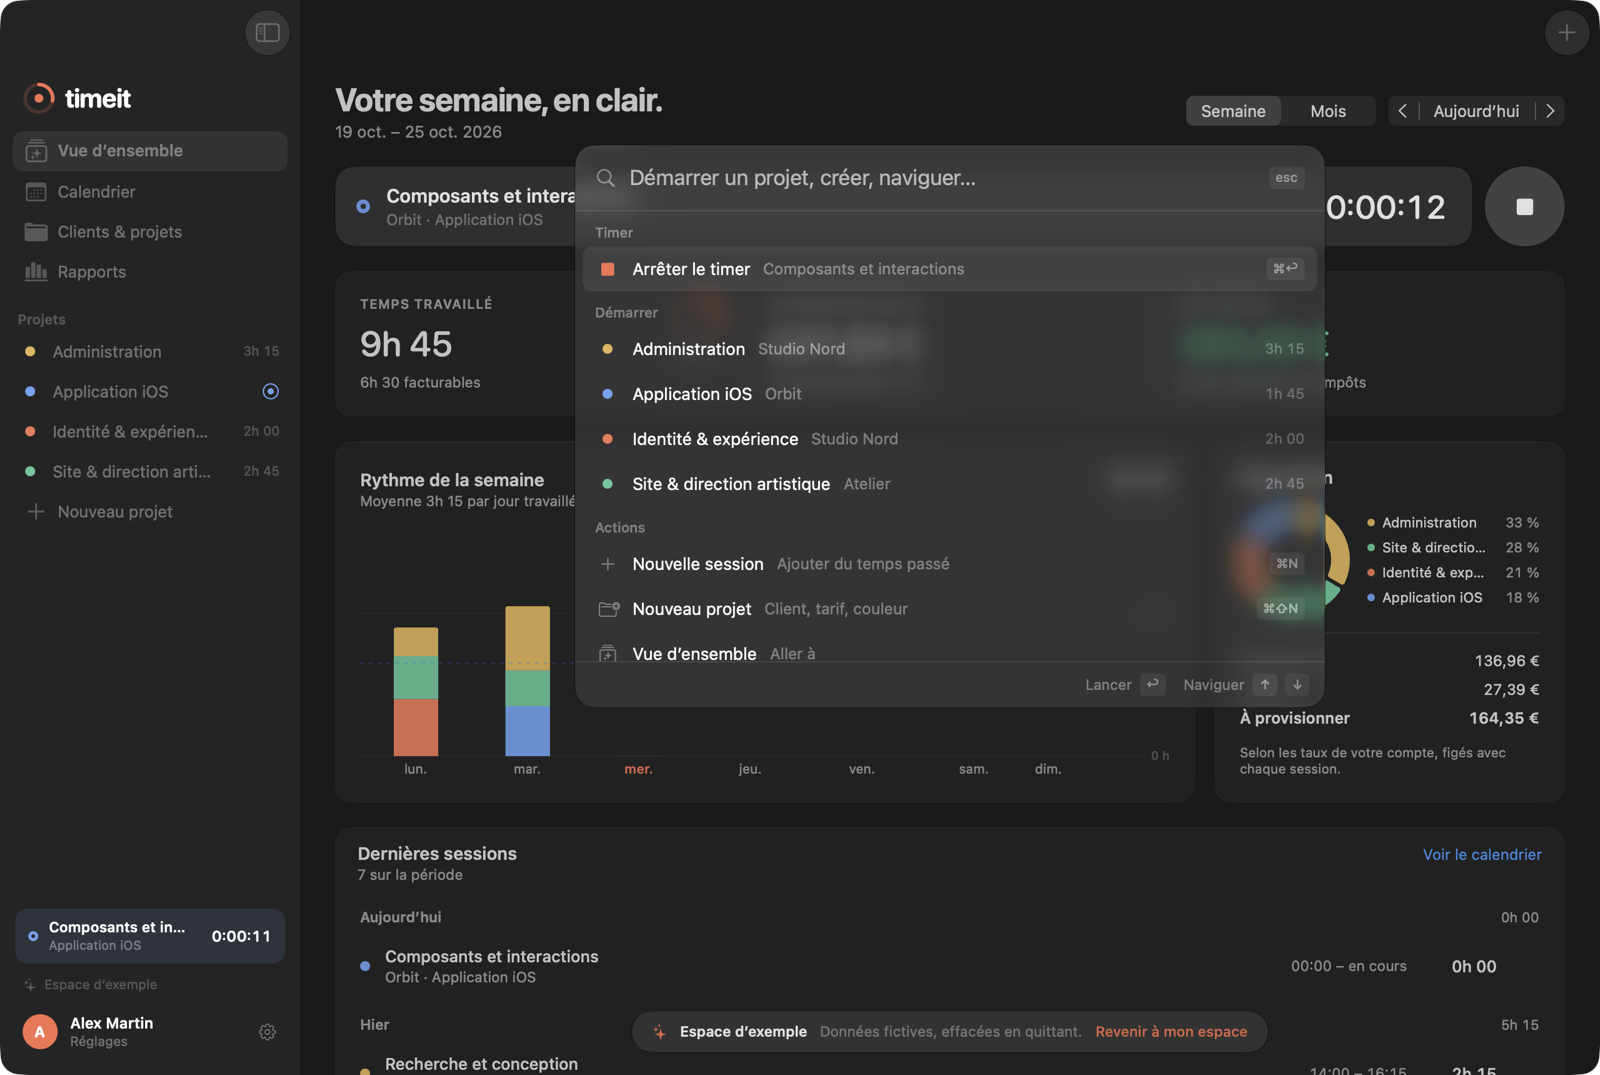
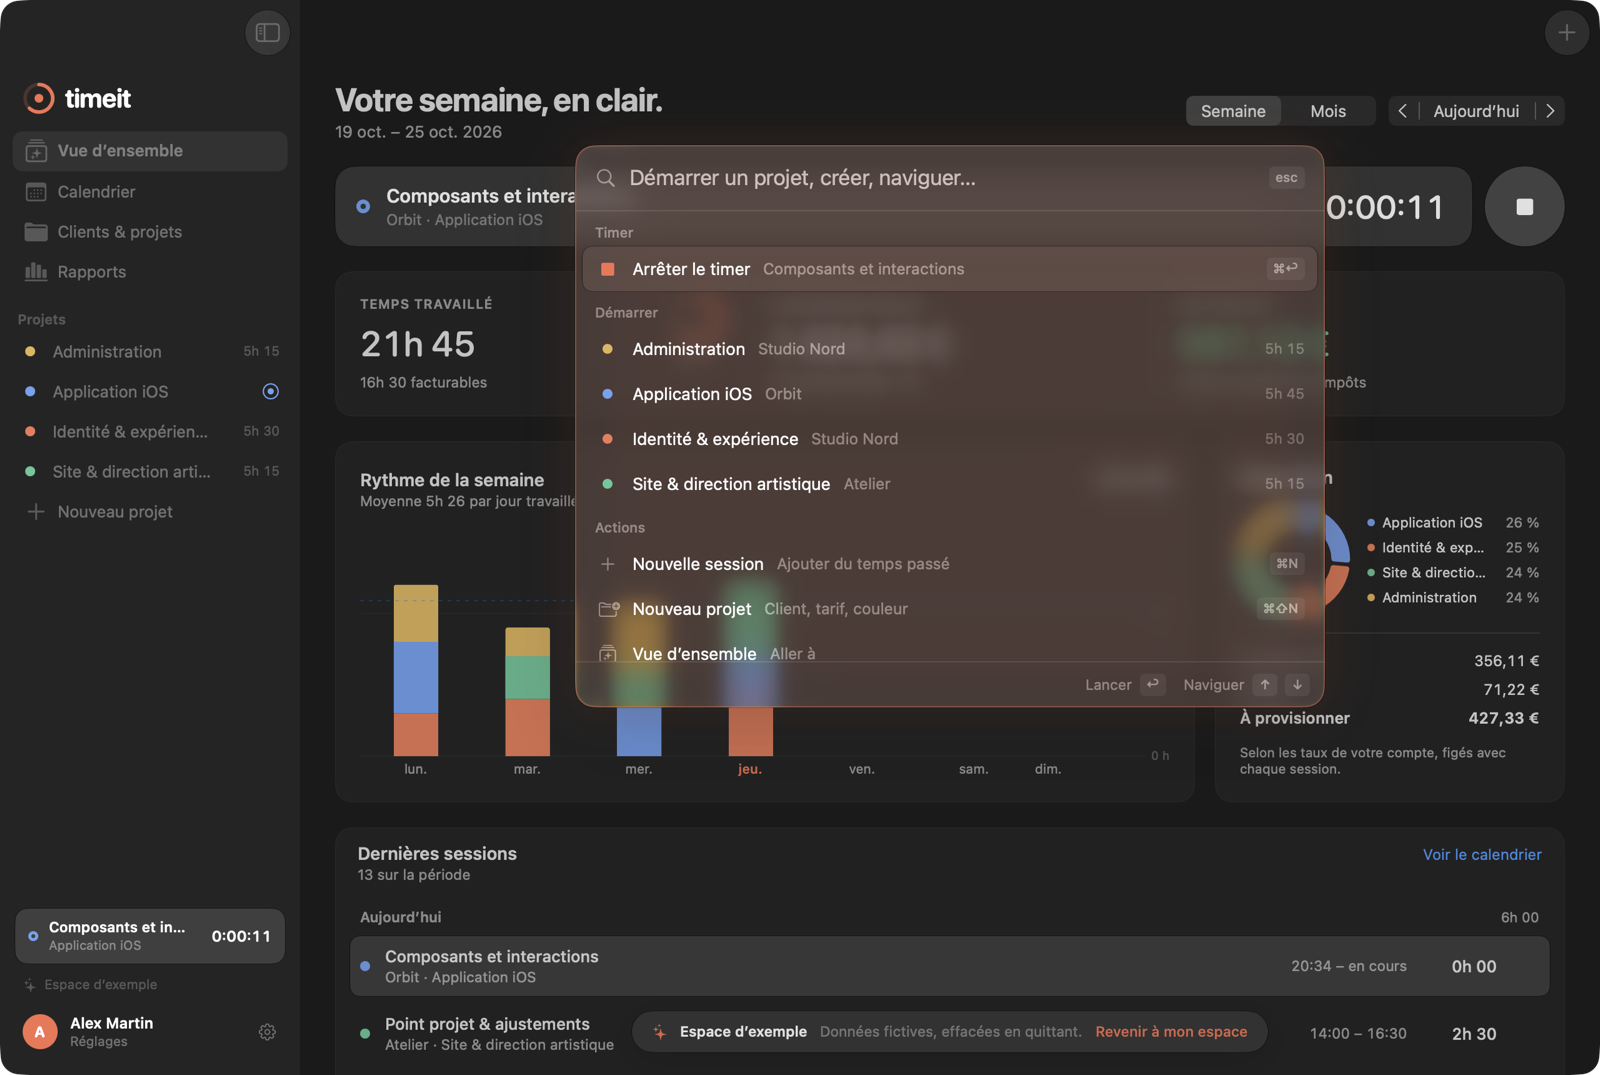
feat(design): define liquid glass roles and reduced-motion behavior
Centralize glass styling and accessibility fallbacks. Apply selection
and panel treatments to active timers and the command palette.

diff --git a/apps/macos/Sources/TimeitApp/Glass.swift b/apps/macos/Sources/TimeitApp/Glass.swift
@@ -1,0 +1,150 @@
+import SwiftUI
+
+/// What a glass surface is for. The more a surface matters, the more glass it is.
+/// No view applies `glassEffect` directly; everything goes through `glass(_:tint:radius:)`.
+enum GlassRole {
+    /// What is live or chosen right now: the running timer, the running row, the palette's highlighted command.
+    case selection
+    /// A control floating on the content: the composer, a filter chip.
+    case control
+    /// A control that acts or is on: the start and stop buttons, filled with `tint`.
+    case accent
+    /// Anything floating over the window: the command palette, the example-workspace badge.
+    case panel
+}
+
+extension View {
+    /// Liquid Glass behind the view, in a continuous rounded rectangle (`radius = height / 2` for a capsule).
+    /// With Reduce Transparency it becomes an opaque fill with a hairline. Passing `id` lets a surrounding
+    /// `GlassEffectContainer` morph this surface into another one with the same id.
+    func glass(
+        _ role: GlassRole, tint: Color? = nil, radius: CGFloat, id: String? = nil, in namespace: Namespace.ID? = nil
+    ) -> some View {
+        modifier(GlassSurface(role: role, tint: tint, radius: radius, id: id, namespace: namespace))
+    }
+
+    /// A fine accent ring and faint halo around a floating panel. When the panel appears, one band of light
+    /// crosses it from bottom to top; afterwards it stays still and draws nothing that moves.
+    func lightRing(_ color: Color, radius: CGFloat) -> some View {
+        modifier(LightRing(color: color, radius: radius))
+    }
+
+    /// Marks what is running: a selection lens tinted with the project color while `tint` is set.
+    /// Otherwise the view keeps its resting surface: a card, or nothing.
+    func liveLens(_ tint: Color?, radius: CGFloat, restingCard: Bool = false) -> some View {
+        background {
+            let shape = RoundedRectangle(cornerRadius: radius, style: .continuous)
+            if let tint {
+                Color.clear.glass(.selection, tint: tint, radius: radius)
+            } else if restingCard {
+                shape.fill(Theme.surface).overlay { shape.strokeBorder(Theme.hairline, lineWidth: 0.5) }
+            }
+        }
+    }
+
+    /// For panels over the window: the command palette.
+    func panelShadow() -> some View { shadow(color: .black.opacity(0.16), radius: 32, y: 16) }
+    /// For small floating surfaces: badges and toasts.
+    func floatShadow() -> some View { shadow(color: .black.opacity(0.12), radius: 14, y: 6) }
+}
+
+private struct GlassSurface: ViewModifier {
+    let role: GlassRole
+    let tint: Color?
+    let radius: CGFloat
+    let id: String?
+    let namespace: Namespace.ID?
+    @Environment(\.accessibilityReduceTransparency) private var reduceTransparency
+    @Environment(\.colorScheme) private var scheme
+
+    @ViewBuilder func body(content: Content) -> some View {
+        let shape = RoundedRectangle(cornerRadius: radius, style: .continuous)
+        // Applied to the view itself, so its content draws on top of the glass, including inside a
+        // `GlassEffectContainer`, which would otherwise merge a background glass layer over the content.
+        if reduceTransparency {
+            content.background { shape.fill(opaqueFill).overlay { shape.strokeBorder(Theme.hairline) } }
+        } else if let id, let namespace {
+            content.glassEffect(glass, in: shape).glassEffectID(id, in: namespace)
+        } else {
+            content.glassEffect(glass, in: shape)
+        }
+    }
+
+    private var glass: Glass {
+        let dark = scheme == .dark
+        switch role {
+        case .selection: return .regular.tint(tint?.opacity(dark ? 0.26 : 0.14)).interactive()
+        case .control: return .regular.tint(tint?.opacity(dark ? 0.16 : 0.08)).interactive()
+        case .accent: return .regular.tint(tint ?? Theme.accent).interactive()
+        case .panel: return .regular
+        }
+    }
+
+    private var opaqueFill: Color {
+        switch role {
+        case .selection: (tint ?? .primary).opacity(scheme == .dark ? 0.22 : 0.12)
+        case .control: Color(nsColor: .controlBackgroundColor)
+        case .accent: tint ?? Theme.accent
+        case .panel: Color(nsColor: .windowBackgroundColor)
+        }
+    }
+}
+
+private struct LightRing: ViewModifier {
+    let color: Color
+    let radius: CGFloat
+    @State private var crossing: Double = 0
+    @Environment(\.accessibilityReduceTransparency) private var reduceTransparency
+    @Environment(\.accessibilityReduceMotion) private var reduceMotion
+
+    func body(content: Content) -> some View {
+        let shape = RoundedRectangle(cornerRadius: radius, style: .continuous)
+        content
+            .background {
+                if !reduceTransparency {
+                    shape.fill(color.opacity(0.12)).blur(radius: 18).padding(-2).allowsHitTesting(false)
+                }
+            }
+            .overlay {
+                shape.strokeBorder(color.opacity(reduceTransparency ? 0.6 : 0.4), lineWidth: 1)
+                    .modifier(LightBand(progress: crossing, color: color, shape: shape))
+                    .allowsHitTesting(false)
+            }
+            .onAppear {
+                guard !reduceMotion else { return }
+                crossing = 0
+                withAnimation(.timingCurve(0.15, 0.9, 0.3, 1, duration: 0.9)) { crossing = 1 }
+            }
+    }
+}
+
+/// A brighter band travelling up the ring. Driven by one animatable value, so it only renders while it runs.
+private struct LightBand: ViewModifier, Animatable {
+    var progress: Double
+    let color: Color
+    let shape: RoundedRectangle
+    nonisolated var animatableData: Double {
+        get { progress }
+        set { progress = newValue }
+    }
+
+    func body(content: Content) -> some View {
+        content.overlay {
+            if progress > 0 && progress < 1 {
+                let light = color.mix(with: .white, by: 0.5)
+                let center = progress
+                shape.strokeBorder(
+                    LinearGradient(
+                        stops: [
+                            .init(color: light.opacity(0), location: max(0, center - 0.3)),
+                            .init(color: light, location: center),
+                            .init(color: light.opacity(0), location: min(1, center + 0.3)),
+                        ],
+                        startPoint: .bottom, endPoint: .top),
+                    lineWidth: 1.5
+                )
+                .opacity(sin(.pi * progress))
+            }
+        }
+    }
+}

diff --git a/apps/macos/Sources/TimeitApp/TimerViews.swift b/apps/macos/Sources/TimeitApp/TimerViews.swift
@@ -4,10 +4,12 @@ import TimeitCore
 
 // MARK: - Composer
 
-/// The primary surface: an idle composer that morphs into the running timer.
+/// The primary surface: an idle composer that morphs into the running timer, whatever starts or stops it
+/// (button, ⌘↩, the global shortcut, the palette or the menu bar).
 struct TimerComposer: View {
     @Bindable var store: AppStore
     @Namespace private var glass
+    private static let radius: CGFloat = 16
     var body: some View {
         GlassEffectContainer(spacing: 10) {
             HStack(spacing: 10) {
@@ -18,6 +20,7 @@ struct TimerComposer: View {
                 }
             }
         }
+        .shellAnimation(value: store.running?.id)
     }
 
     private var idle: some View {
@@ -31,8 +34,7 @@ struct TimerComposer: View {
                 ProjectChip(store: store)
             }
             .padding(.leading, 16).padding(.trailing, 8).frame(height: 52)
-            .glassEffect(.regular, in: .rect(cornerRadius: 16))
-            .glassEffectID("bar", in: glass)
+            .glass(.control, radius: Self.radius, id: "bar", in: glass)
             Button(action: start) {
                 Image(systemName: "play.fill").font(.system(size: 16, weight: .semibold))
                     .frame(width: 52, height: 52)
@@ -40,8 +42,7 @@ struct TimerComposer: View {
             }
             .buttonStyle(.plain)
             .foregroundStyle(.white)
-            .glassEffect(.regular.tint(Theme.accent).interactive(), in: .circle)
-            .glassEffectID("action", in: glass)
+            .glass(.accent, tint: Theme.accent, radius: 26, id: "action", in: glass)
             .disabled(store.nextTimerProject == nil)
             .help("Démarrer (↩)")
             .accessibilityLabel("Démarrer le timer")
@@ -74,27 +75,21 @@ struct TimerComposer: View {
                 }
             }
             .padding(.leading, 16).padding(.trailing, 20).frame(height: 64)
-            .glassEffect(.regular.tint(tint.opacity(0.12)), in: .rect(cornerRadius: 16))
-            .glassEffectID("bar", in: glass)
-            Button {
-                withAnimation(Motion.standard) { store.stop() }
-            } label: {
+            .glass(.selection, tint: tint, radius: Self.radius, id: "bar", in: glass)
+            Button(action: store.stop) {
                 Image(systemName: "stop.fill").font(.system(size: 16, weight: .semibold))
                     .frame(width: 64, height: 64)
                     .contentShape(Circle())
             }
             .buttonStyle(.plain)
             .foregroundStyle(.white)
-            .glassEffect(.regular.tint(tint).interactive(), in: .circle)
-            .glassEffectID("action", in: glass)
+            .glass(.accent, tint: tint, radius: 32, id: "action", in: glass)
             .help("Arrêter (⌘↩)")
             .accessibilityLabel("Arrêter le timer")
         }
     }
 
-    private func start() {
-        withAnimation(Motion.standard) { store.toggleTimer() }
-    }
+    private func start() { store.toggleTimer() }
 }
 
 /// Project selector for the next timer, used by the composer and the menu bar.
@@ -226,7 +221,8 @@ struct MenuBarView: View {
             .tint(tint)
             .disabled(store.running == nil && store.nextTimerProject == nil)
         }
-        .card(padding: 14)
+        .padding(14)
+        .liveLens(store.running == nil ? nil : tint, radius: Theme.cardRadius, restingCard: true)
     }
 }
 
@@ -239,6 +235,7 @@ struct CommandPalette: View {
     @State private var selection = 0
     /// Weekly totals shown next to projects; computed once per opening, not per keystroke.
     @State private var weekSeconds: [UUID: TimeInterval] = [:]
+    private static let radius: CGFloat = 16
 
     var body: some View {
         let items = store.paletteCommands(matching: store.launcherQuery, weekSeconds: weekSeconds)
@@ -310,7 +307,11 @@ struct CommandPalette: View {
                 .padding(.horizontal, 12).frame(height: 36)
             }
             .frame(width: 600)
-            .glassEffect(.regular, in: .rect(cornerRadius: 16))
+            // Clip the results, not the glass, so the glass keeps sampling what lies under the panel.
+            .clipShape(RoundedRectangle(cornerRadius: Self.radius, style: .continuous))
+            .glass(.panel, radius: Self.radius)
+            .lightRing(Theme.accent, radius: Self.radius)
+            .panelShadow()
             .padding(.top, 64)
         }
         .onAppear {
@@ -335,10 +336,12 @@ struct CommandPalette: View {
             }
         }
         .padding(.horizontal, 10).frame(height: 36)
-        .background(
-            RoundedRectangle(cornerRadius: Theme.rowRadius, style: .continuous)
-                .fill(Color.primary.opacity(selected ? 0.08 : 0))
-        )
+        .background {
+            if selected {
+                Color.clear.glass(
+                    .selection, tint: item.section == .start ? item.tint : nil, radius: Theme.rowRadius)
+            }
+        }
         .contentShape(Rectangle())
     }
 

diff --git a/apps/macos/Sources/TimeitApp/ContentView.swift b/apps/macos/Sources/TimeitApp/ContentView.swift
@@ -87,7 +87,8 @@ struct ContentView: View {
             }
             .font(.system(size: 11.5))
             .padding(.horizontal, 16).padding(.vertical, 9)
-            .glassEffect(.regular, in: .capsule)
+            .glass(.panel, radius: 17)
+            .floatShadow()
             .padding(.bottom, 18)
         }
     }
@@ -179,7 +180,7 @@ private struct Sidebar: View {
                         }
                     }
                     .padding(.horizontal, 10).padding(.vertical, 8)
-                    .background(tint.opacity(0.12), in: RoundedRectangle(cornerRadius: 10, style: .continuous))
+                    .liveLens(tint, radius: 10)
                 }
                 .buttonStyle(.plain)
             }
@@ -309,8 +310,8 @@ struct FilterChip: View {
                     Text(project.name).fontWeight(.medium)
                     Image(systemName: "xmark").font(.system(size: 9, weight: .bold)).foregroundStyle(.secondary)
                 }
-                .font(.system(size: 11.5)).padding(.horizontal, 10).padding(.vertical, 5)
-                .background(project.color.tint.opacity(0.14), in: Capsule())
+                .font(.system(size: 11.5)).padding(.horizontal, 10).frame(height: 26)
+                .glass(.control, tint: project.color.tint, radius: 13)
             }
             .buttonStyle(.plain)
             .help("Retirer le filtre")

diff --git a/apps/macos/Sources/TimeitApp/Theme.swift b/apps/macos/Sources/TimeitApp/Theme.swift
@@ -16,10 +16,23 @@ enum Theme {
 }
 
 enum Motion {
-    /// State changes the user waits on: screen content, composer morph, palette.
-    static let standard = Animation.smooth(duration: 0.28)
-    /// Small feedback: hover, selection, press.
+    /// Glass surfaces changing shape: the composer becoming the running timer.
+    static let shell = Animation.spring(duration: 0.28, bounce: 0.08)
+    /// Small feedback: hover, the palette appearing.
     static let quick = Animation.easeOut(duration: 0.14)
+}
+
+extension View {
+    /// Animates `value` changes with the shell spring, or not at all with Reduce Motion.
+    func shellAnimation(value: some Equatable) -> some View { modifier(ShellAnimation(value: value)) }
+}
+
+private struct ShellAnimation<Value: Equatable>: ViewModifier {
+    let value: Value
+    @Environment(\.accessibilityReduceMotion) private var reduceMotion
+    func body(content: Content) -> some View {
+        content.animation(reduceMotion ? nil : Motion.shell, value: value)
+    }
 }
 
 extension Color {

diff --git a/apps/macos/Sources/TimeitApp/DashboardView.swift b/apps/macos/Sources/TimeitApp/DashboardView.swift
@@ -385,6 +385,7 @@ struct EntryRow: View {
         }
         .padding(.vertical, 8).padding(.horizontal, 8)
         .hoverHighlight()
+        .liveLens(entry.end == nil ? project?.color.tint ?? Theme.accent : nil, radius: Theme.rowRadius)
         .onHover { hovered = $0 }
         .onTapGesture(count: 2) { store.entryEditor = EntryEditorRequest(entry: entry) }
         .contextMenu {

diff --git a/apps/macos/Sources/TimeitApp/ProjectsView.swift b/apps/macos/Sources/TimeitApp/ProjectsView.swift
@@ -131,6 +131,7 @@ private struct ProjectRow: View {
         }
         .padding(.horizontal, 10).padding(.vertical, 10)
         .hoverHighlight()
+        .liveLens(live ? project.color.tint : nil, radius: Theme.rowRadius)
         .onHover { hovered = $0 }
         .onTapGesture(count: 2) { store.projectEditor = ProjectEditorRequest(project: project) }
         .contextMenu {

diff --git a/DESIGN.md b/DESIGN.md
@@ -20,10 +20,27 @@ Neutral system backgrounds dominate. One accent, ember #D9482A / #F57352 (light/
 
 ## Tokens (Theme.swift)
 
-- Surfaces: content cards use `Theme.surface` (primary at 3.5 %) with a 0.5 pt hairline, no shadow. Glass is reserved for floating controls: timer bar, toolbar, palette, demo badge. Native segmented pickers and control groups provide their own glass.
-- Radius: cards 14, rows 8, timer bar 16.
+- Content surfaces use `card()`: `Theme.surface` (primary at 3.5 %) with a 0.5 pt hairline, no shadow.
+- Radius: cards 14, rows 8, timer bar 16, palette 16.
 - Spacing: gutter 28, 20 between sections, 8–12 inside groups. Content capped at 1160 pt.
-- Motion: `Motion.standard` (smooth, 0.28 s) for the composer morph; `Motion.quick` (ease-out, 0.14 s) for the palette fade.
+- Motion: `Motion.shell` (spring, 0.28 s, bounce 0.08) for glass changing shape, through `shellAnimation(value:)`, which honors Reduce Motion; `Motion.quick` (ease-out, 0.14 s) for the palette fade.
+
+## Glass (Glass.swift)
+
+Liquid Glass goes through one modifier, `glass(_:tint:radius:)`, whose role sets the intensity: the more a surface matters, the more glass it is. No view calls `glassEffect` directly. With Reduce Transparency every surface becomes opaque with a hairline.
+
+| Role | Glass | Used for |
+| --- | --- | --- |
+| `selection` | regular, tint at 14 % (26 % dark), interactive | what is live: the running timer bar, the running session and project rows, the sidebar's running pill, the menu-bar timer; the palette's highlighted command |
+| `control` | regular, tint at 8 % (16 % dark), interactive | the idle composer, the project filter chip |
+| `accent` | regular, fully tinted, interactive | the start and stop buttons |
+| `panel` | regular, untinted | the command palette, the example-workspace badge |
+
+- `liveLens(_:radius:)` puts a `selection` lens behind a row while its project runs, tinted with the project color.
+- The palette clips its results, not its glass, carries `panelShadow()` and a `lightRing`: a fine accent ring and faint halo, with one band of light crossing it from bottom to top in 0.9 s when it opens. The band is driven by one animatable value, so nothing renders once it has passed.
+- The composer and its button share a `GlassEffectContainer` and `glassEffectID`s, so the idle bar morphs into the running timer whatever starts it.
+- Not glass: content cards, charts, tables, the calendar, rows at rest, hover (a flat fill), buttons inside glass surfaces, sheets and Settings (system forms).
+- No light or glow under glass surfaces: it spreads into a smudge on anything larger than a small tile.
 
 ## Layout
 
@@ -35,7 +52,7 @@ Rows highlight on hover; secondary actions (resume, edit, archive) appear on hov
 
 ## Motion and performance
 
-Motion only where it explains a state change: the composer morph and the palette fade. No hover scaling, staggered entrances, bars that grow, bouncy springs or rolling digits. Nothing loops: a repeating effect, even on an 8 pt dot, forces the whole glass window to recomposite every frame (measured at about 100 % CPU while a timer ran, 0.6 % without). `runningTimerStaysCheapToRender` guards this with a 10 % ceiling. The timer ticks through `TimelineView` once per second; finished rows render static text.
+Motion only where it explains a state change: the composer morph, the palette fade and its one-shot light band. No hover scaling, staggered entrances, bars that grow, bouncy springs or rolling digits. Nothing loops: a repeating effect, even on an 8 pt dot, forces the whole glass window to recomposite every frame (measured at about 100 % CPU while a timer ran, 0.6 % without). `runningTimerStaysCheapToRender` guards this with a 10 % ceiling. The timer ticks through `TimelineView` once per second; finished rows render static text.
 
 ## Accessibility
 

diff --git a/AGENTS.md b/AGENTS.md
@@ -40,7 +40,8 @@ Before finishing a change: format, lint, run the tests of every package you touc
 - UI copy is French; code, comments, commits and docs are English.
 - Amounts and percentages are decimal strings on the wire and `Decimal` in Swift. Never use `Double` for money.
 - Durations derive from persisted instants. A UI timer is never the source of elapsed time.
-- Follow `DESIGN.md`: glass only on floating controls, flat content surfaces, one accent, no gradients or glows, motion only for state changes.
+- Follow `DESIGN.md`: flat content surfaces, one accent, no gradients or glows, motion only for state changes.
+- Liquid Glass only through `glass(_:tint:radius:)` and its roles (`selection`, `control`, `accent`, `panel`) in `Glass.swift`; never call `glassEffect` directly. Glass marks what is live or floating, never content.
 - Never add looping animations (`repeatForever`, repeating `symbolEffect`). They recomposite the whole glass window every frame; `runningTimerStaysCheapToRender` fails above 10 % CPU.
 - `TimelineView` only where a value changes over time (running timer); finished rows render static text.
 
